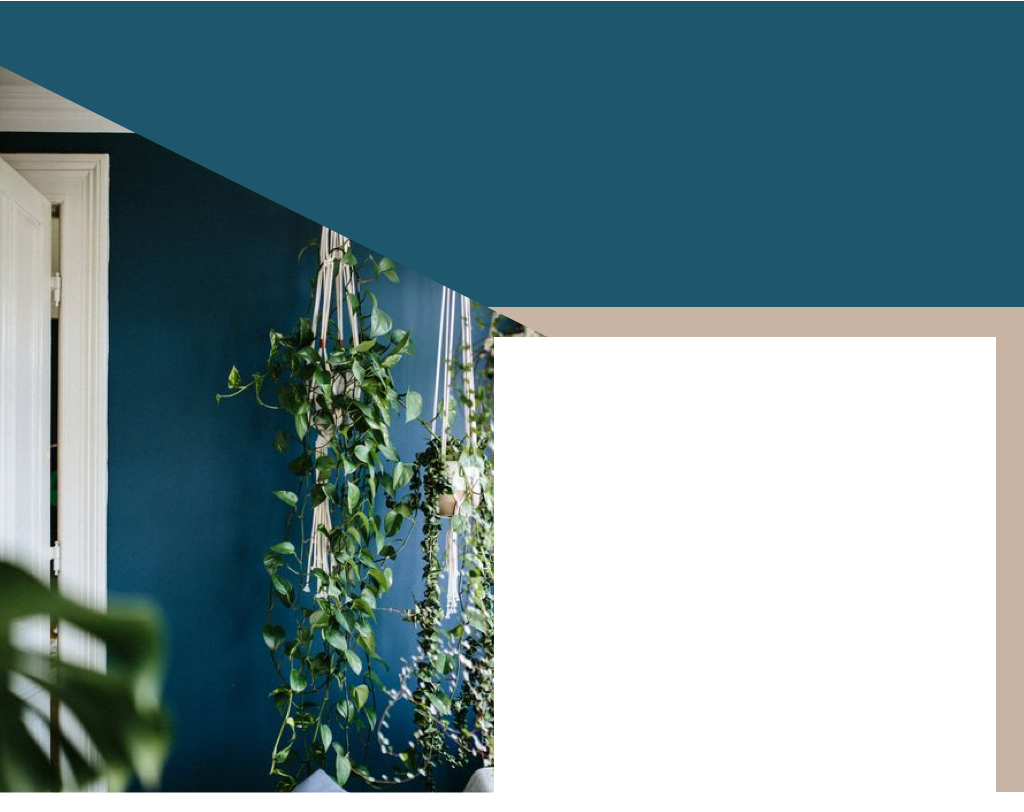
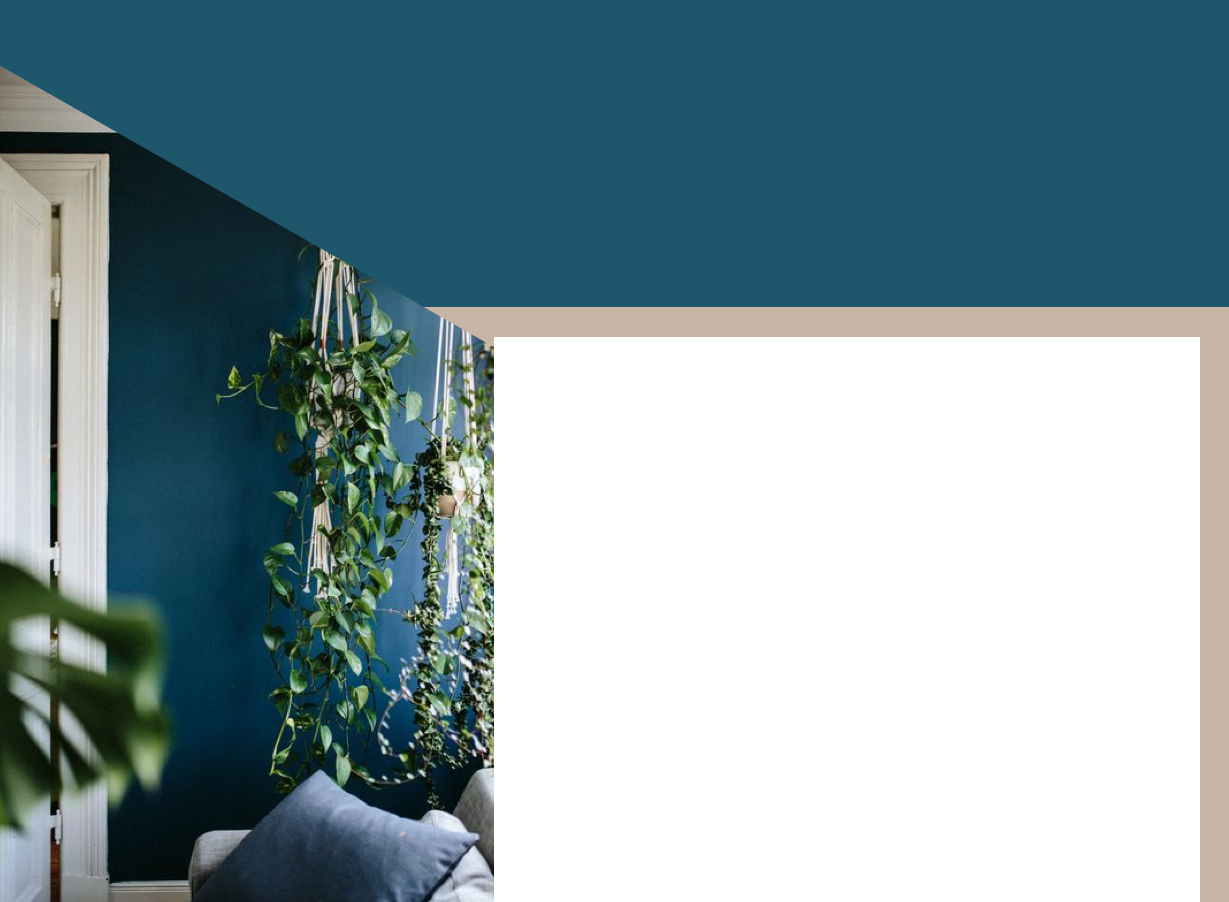
photo edits and margins

Changed region(s): [[0.0, 0.1232, 1.0, 1.0], [0.0, 0.0616, 0.0312, 0.0924]]

diff --git a/06 zen garden/style.css b/06 zen garden/style.css
@@ -25,8 +25,8 @@ body {
     background-image: url(Header%20image.png) ;
     background-repeat: no-repeat ;
     background-color: rgba(30, 87, 108, 1) ;
-    background-size: 1000px 620px ;
-    background-position: 0px 80px ;
+    background-size: 1000px 675px ;
+    background-position: 0px 90px ;
     
     /*    background-color: rgba(30, 87, 108, 1);*/
 }
@@ -133,6 +133,19 @@ div {
     width: 100% ;
 }
 .explanation {
+    margin-top: -50px ;
+    background-color: #95AE80 ;
+    background-image: url(f86e376f2f7a57d0f4198316b19ffcf4.jpg);
+    background-repeat: no-repeat ;
+    background-size: 421px 432px ;
+    background-position: 545px 32px ;
+}
+#zen-explanation p{
+    width: 28em ;
+}
+.explanation {
+    color: #FFFFFF ;
+    padding: 50px 50px 50px 50px ;
     background-color: #95AE80 ;
 }
 #design-selection {
@@ -191,12 +204,18 @@ li:link {
 }
 #zen-preamble p {
     color: #000 ;
+    width: 28em ;
 }
 #zen-participation p {
     color: #000 ;
+    width: 45em ;
+    
 }
 .participation {
-    padding-left: 50px ;
+    padding-left: 150px ;
+    background-color: #ffffff ;
+    padding-top: 50px ;
+    padding-bottom: 50px ;
 }
 .preamble {
     display: block ;
@@ -235,6 +254,9 @@ footer {
 /*    background-color: rgba(30, 87, 108, 1) ;*/
     margin-left: 450px ;
 }
+#zen-summary p {
+    width: 28em ;
+}
 .intro {
 /*    background-color: rgba(30, 87, 108, 1) ;*/
     padding-left: 50px ;
@@ -242,7 +264,15 @@ footer {
 .benefits {
     background-color: rgba(30, 87, 108, 1) ;
     color: #FFFFFF ;
-    padding-left: 50px ;
+    background-image: url(8dc05637edea05ec6924e52cc1a4705b.jpg);
+    background-repeat: no-repeat ;
+    background-size: 421px 432px ;
+    padding: 150px 0px 150px 100px ;
+    background-position: 50px 32px ;
+    
+}
+#zen-benefits p{
+    width: 28em ;
 }
 .zen-resources {
     background-color: rgba(30, 87, 108, 1) ;
@@ -253,11 +283,7 @@ footer {
     color: #FFFFFF ;
     padding-left: 50px ;
 }
-.explanation {
-    color: #FFFFFF ;
-    padding: 50px 50px 50px 100px ;
-    background-color: #95AE80 ;
-}
+
     
 }
 /*
